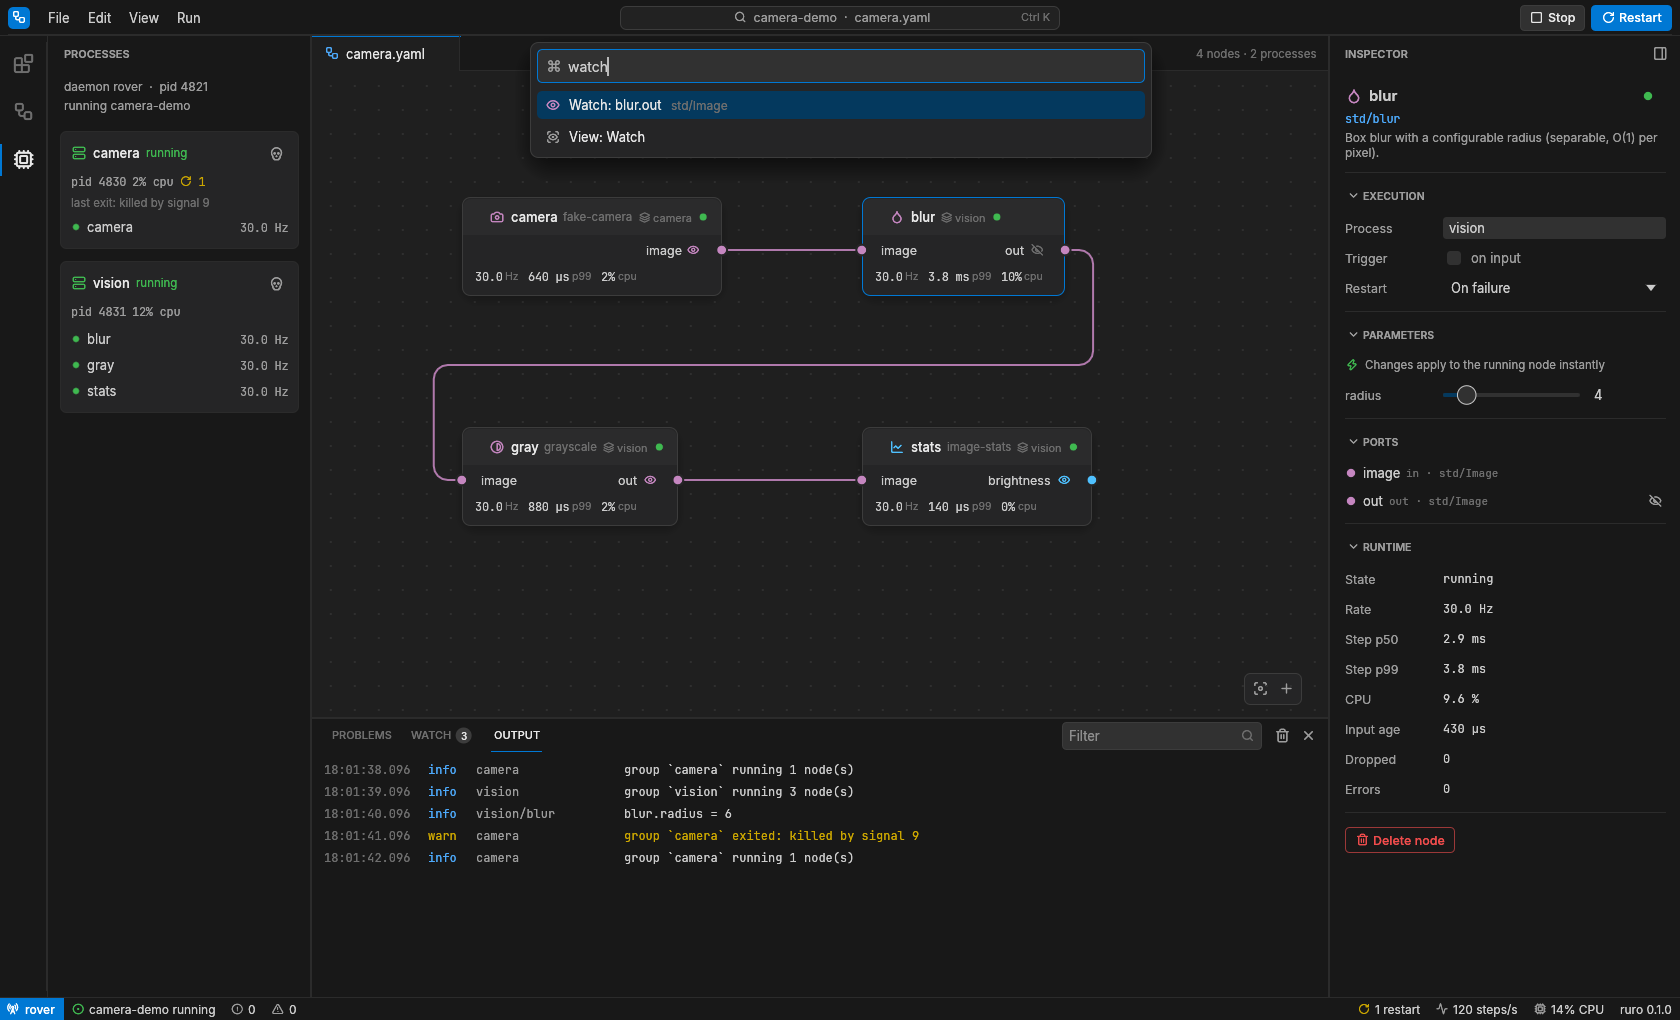
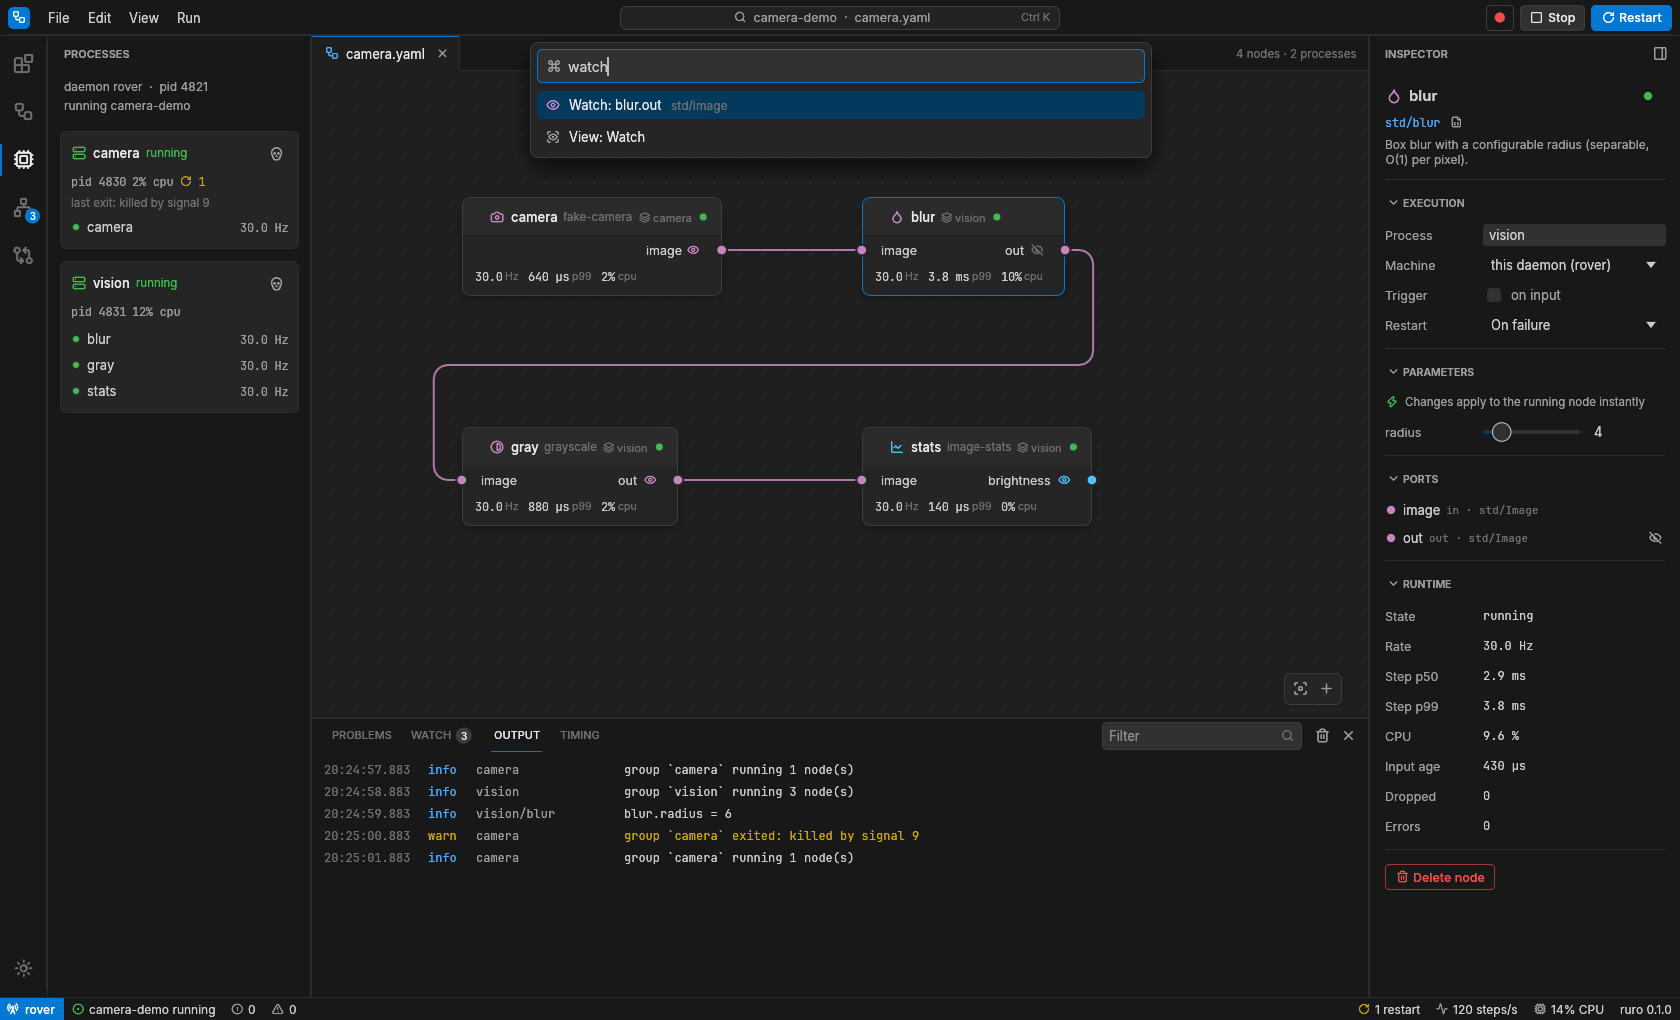
Studio screenshots for every feature, written where the docs expect them
The screenshot test now resolves a relative RURO_SCREENSHOTS against the
workspace root (cargo runs tests in the crate directory, so the documented
command used to write into crates/ruro-studio) and names its images after
the pages that show them. The inspector shows a graph's file name, with the
full path on hover.

diff --git a/crates/ruro-studio/src/app/tests.rs b/crates/ruro-studio/src/app/tests.rs
@@ -1146,6 +1146,14 @@ fn screenshots() {
     let Some(dir) = std::env::var_os("RURO_SCREENSHOTS").map(PathBuf::from) else {
         return;
     };
+    // Tests run in the crate directory; relative paths mean the workspace root.
+    let dir = if dir.is_relative() {
+        PathBuf::from(env!("CARGO_MANIFEST_DIR"))
+            .join("../..")
+            .join(dir)
+    } else {
+        dir
+    };
     std::fs::create_dir_all(&dir).unwrap();
     let save = |h: &mut Harness<'static, Studio>, name: &str| {
         h.run_steps(6);
@@ -1163,9 +1171,11 @@ fn screenshots() {
                 let mut s = Studio::new(cc, Options::offline());
                 s.registry = ruro_node::registry();
                 s.settings.panel_height = Some(panel);
-                s.settings.recent = ["camera.yaml", "arm.yaml"]
+                // Recent files as a user would have them.
+                let home = PathBuf::from(std::env::var_os("HOME").unwrap_or_default());
+                s.settings.recent = ["rover/perception.yaml", "rover/drive.yaml", "arm/pick.yaml"]
                     .iter()
-                    .map(|f| examples().join(f).canonicalize().unwrap())
+                    .map(|f| home.join("robots").join(f))
                     .collect();
                 if let Some(f) = file.take() {
                     s.open(&f);
@@ -1176,23 +1186,23 @@ fn screenshots() {
     let shot = |file: Option<PathBuf>| shot_with(file, 280.0);
 
     let mut h = shot(None);
-    save(&mut h, "01-welcome");
+    save(&mut h, "studio-welcome");
 
     let mut h = shot(Some(examples().join("camera.yaml")));
-    save(&mut h, "02-editing");
+    save(&mut h, "studio-editing");
 
     simulate_live(&mut h);
     h.state_mut().push(Cmd::Focus(Some("blur".into())));
-    save(&mut h, "03-live");
+    save(&mut h, "studio");
 
     h.state_mut().push(Cmd::Activity(Activity::Processes));
     h.state_mut().push(Cmd::ShowPanel(PanelTab::Output));
-    save(&mut h, "04-processes-output");
+    save(&mut h, "studio-processes");
 
     h.state_mut().push(Cmd::CommandPalette);
     h.run_steps(2);
     h.event(egui::Event::Text("watch".into()));
-    save(&mut h, "05-command-palette");
+    save(&mut h, "command-palette");
     h.key_press(egui::Key::Escape);
 
     // Recording and replay.
@@ -1205,10 +1215,10 @@ fn screenshots() {
     );
     h.state_mut().recording_since =
         std::time::Instant::now().checked_sub(std::time::Duration::from_secs(83));
-    save(&mut h, "06-recording-replay");
+    save(&mut h, "studio-replay");
     h.state_mut().push(Cmd::Activity(Activity::Fleet));
     set_status(&mut h, None, None);
-    save(&mut h, "07-fleet");
+    save(&mut h, "studio-fleet");
 
     // The 3D view.
     let mut h = shot_with(Some(examples().join("camera.yaml")), 520.0);
@@ -1216,17 +1226,17 @@ fn screenshots() {
     h.state_mut().watches.clear();
     simulate_3d(&mut h);
     h.state_mut().push(Cmd::Focus(Some("blur".into())));
-    save(&mut h, "08-3d-view");
+    save(&mut h, "studio-3d");
 
     // Light theme.
     let mut h = shot(Some(examples().join("camera.yaml")));
     simulate_live(&mut h);
     h.state_mut().push(Cmd::Focus(Some("blur".into())));
     h.state_mut().push(Cmd::SetTheme(ThemeKind::Light));
-    save(&mut h, "09-light");
+    save(&mut h, "studio-light");
     let mut w = shot(None);
     w.state_mut().push(Cmd::SetTheme(ThemeKind::Light));
-    save(&mut w, "10-welcome-light");
+    save(&mut w, "studio-welcome-light");
     crate::theme::apply(&w.ctx, ThemeKind::Dark);
 
     // Tabs, a subgraph and a comparison.
@@ -1261,22 +1271,22 @@ fn screenshots() {
     }
     h.state_mut().push(Cmd::CompareWithSaved);
     h.state_mut().push(Cmd::FitView);
-    save(&mut h, "11-compare");
+    save(&mut h, "studio-compare");
     h.state_mut().push(Cmd::CloseCompare);
     h.state_mut().push(Cmd::Activity(Activity::Outline));
     h.state_mut().push(Cmd::Focus(Some("vision".into())));
-    save(&mut h, "12-subgraph");
+    save(&mut h, "studio-composite");
     h.state_mut().push(Cmd::OpenSubgraph("vision".into()));
     h.state_mut().push(Cmd::FitView);
-    save(&mut h, "13-subgraph-tab");
+    save(&mut h, "studio-subgraph");
 
     // Multi-selection and the close prompt.
     let mut h = shot(Some(examples().join("camera.yaml")));
     h.key_press_modifiers(CTRL, egui::Key::A);
-    save(&mut h, "14-selection");
+    save(&mut h, "studio-selection");
     h.state_mut().push(Cmd::AddNode("std/sine".into()));
     h.run_steps(2);
     let uid = h.state().doc.uid;
     h.state_mut().push(Cmd::CloseTab(uid));
-    save(&mut h, "15-close-prompt");
+    save(&mut h, "studio-close-prompt");
 }

diff --git a/crates/ruro-studio/src/inspector.rs b/crates/ruro-studio/src/inspector.rs
@@ -169,13 +169,18 @@ fn graph(s: &mut Studio, ui: &mut Ui) {
             }
         });
         widgets::prop_row(ui, "File", "", |ui| {
-            let path = s
-                .doc
-                .path
-                .as_ref()
-                .map_or("not saved".to_owned(), |p| p.display().to_string());
-            ui.label(RichText::new(widgets::truncate(&path, 34)).color(TEXT_DIM()))
-                .on_hover_text(path);
+            // The file name; the full path is on hover.
+            let (name, path) = match &s.doc.path {
+                Some(p) => (crate::app::file_name(p), p.display().to_string()),
+                None if s.doc.parent.is_some() => {
+                    ("part of the parent graph".to_owned(), String::new())
+                }
+                None => ("not saved".to_owned(), String::new()),
+            };
+            let label = ui.label(RichText::new(widgets::truncate(&name, 34)).color(TEXT_DIM()));
+            if !path.is_empty() {
+                label.on_hover_text(path);
+            }
         });
         let graph = s.doc.to_graph(&s.registry);
         widgets::prop_row(ui, "Nodes", "", |ui| {

diff --git a/README.md b/README.md
@@ -18,8 +18,10 @@ the `ruro` CLI.
 - **Typed.** Ports carry typed messages. Invalid wires are rejected in the editor and before
   deployment.
 - **Observable.** Every node reports its rate, step latency (p50/p99), CPU, input age, drops and
-  errors. Any output can be watched live: images, plots, values. Watching costs nothing while
-  nobody is looking.
+  errors. Any output can be watched live: images, plots, values, point clouds and transform
+  trees in 3D. Watching costs nothing while nobody is looking.
+- **Composable.** Group nodes into subgraphs, reuse them across graphs from their own files,
+  and compare versions of a graph node by node.
 - **Remote-ready.** The daemon is a Zenoh router: point the studio at a robot on the network
   and work with it as if it were local.
 - **Native.** The studio is a single native Linux binary built with egui. No browser, no
@@ -54,6 +56,21 @@ Or from a terminal:
 ./target/release/ruro param blur radius 12       # retune a running node
 ./target/release/ruro kill camera                # crash a process; watch it come back
 ```
+
+## The studio
+
+Graphs open as tabs with full undo and redo. Copy and paste nodes as YAML, group them into
+subgraphs, start from templates, and compare a graph with its saved version. While a graph runs,
+watch any output as an image, a plot or a 3D scene, record it, and replay recordings on a
+timeline. A fleet view lists every daemon on the network. Dark and light themes.
+
+| | |
+|---|---|
+| ![Point cloud and transform tree in the 3D view](docs/images/studio-3d.png) | ![The light theme](docs/images/studio-light.png) |
+| ![Comparing a graph with its saved version](docs/images/studio-compare.png) | ![A subgraph open in its own tab](docs/images/studio-subgraph.png) |
+
+The [studio guide](book/src/studio.md) covers every feature, and
+[studio plugins](book/src/studio-plugins.md) shows how to add visualizers and panels.
 
 ## Concepts
 
@@ -187,8 +204,10 @@ nodes/
 
 ```sh
 cargo test --workspace
-cargo clippy --workspace --all-targets
-# Re-render the studio screenshots headlessly:
+cargo clippy --workspace --all-targets -- -D warnings
+# The documentation book (needs mdbook):
+mdbook serve book
+# Re-render the studio screenshots headlessly (into docs/images):
 RURO_SCREENSHOTS=docs/images cargo test -p ruro-studio screenshots
 ```
 
